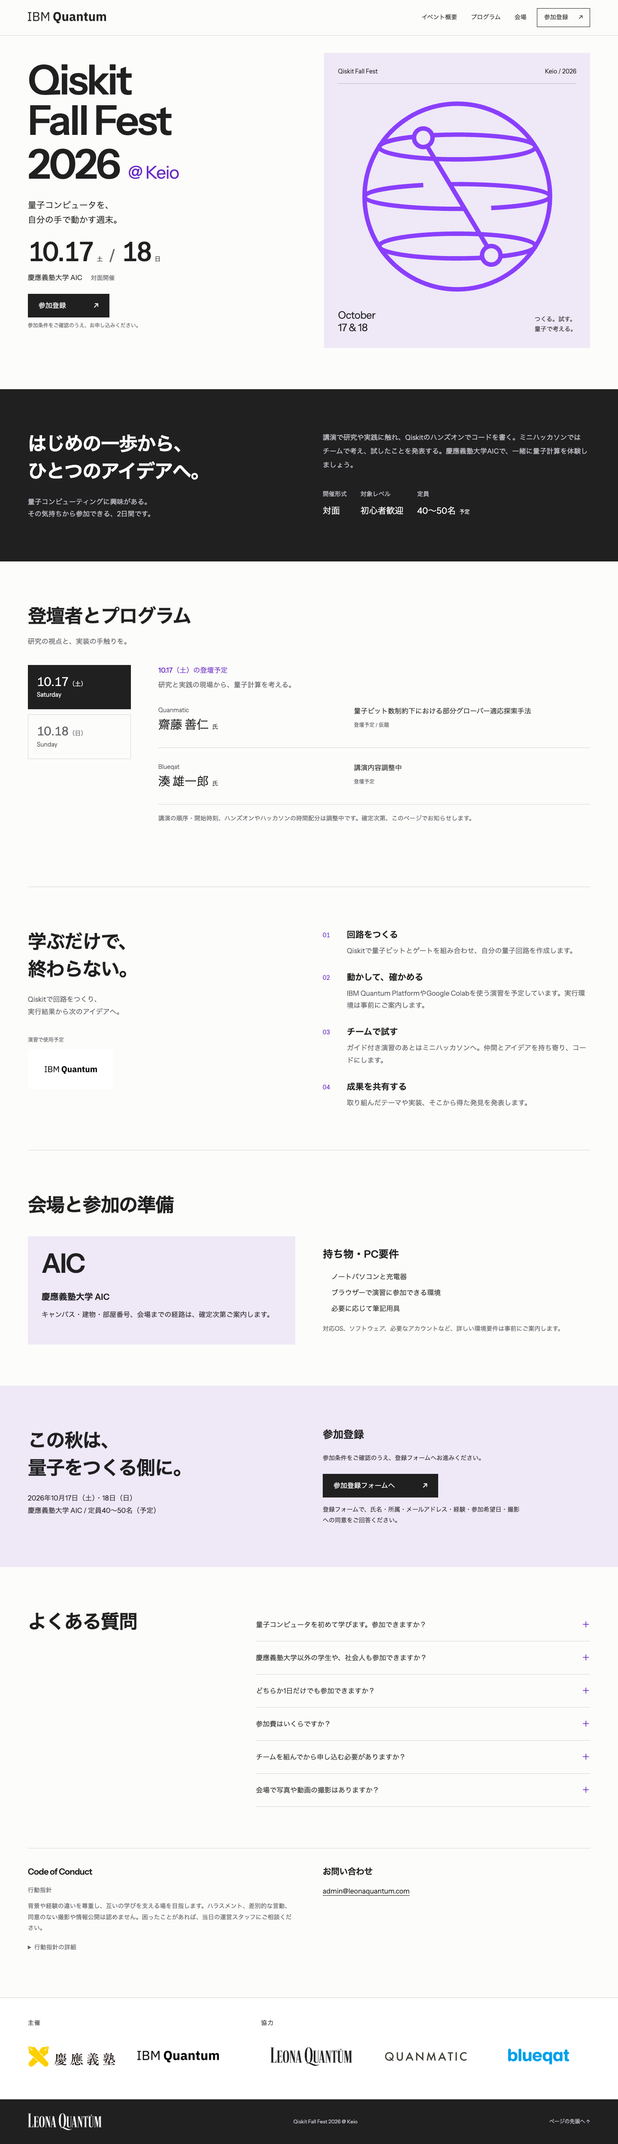
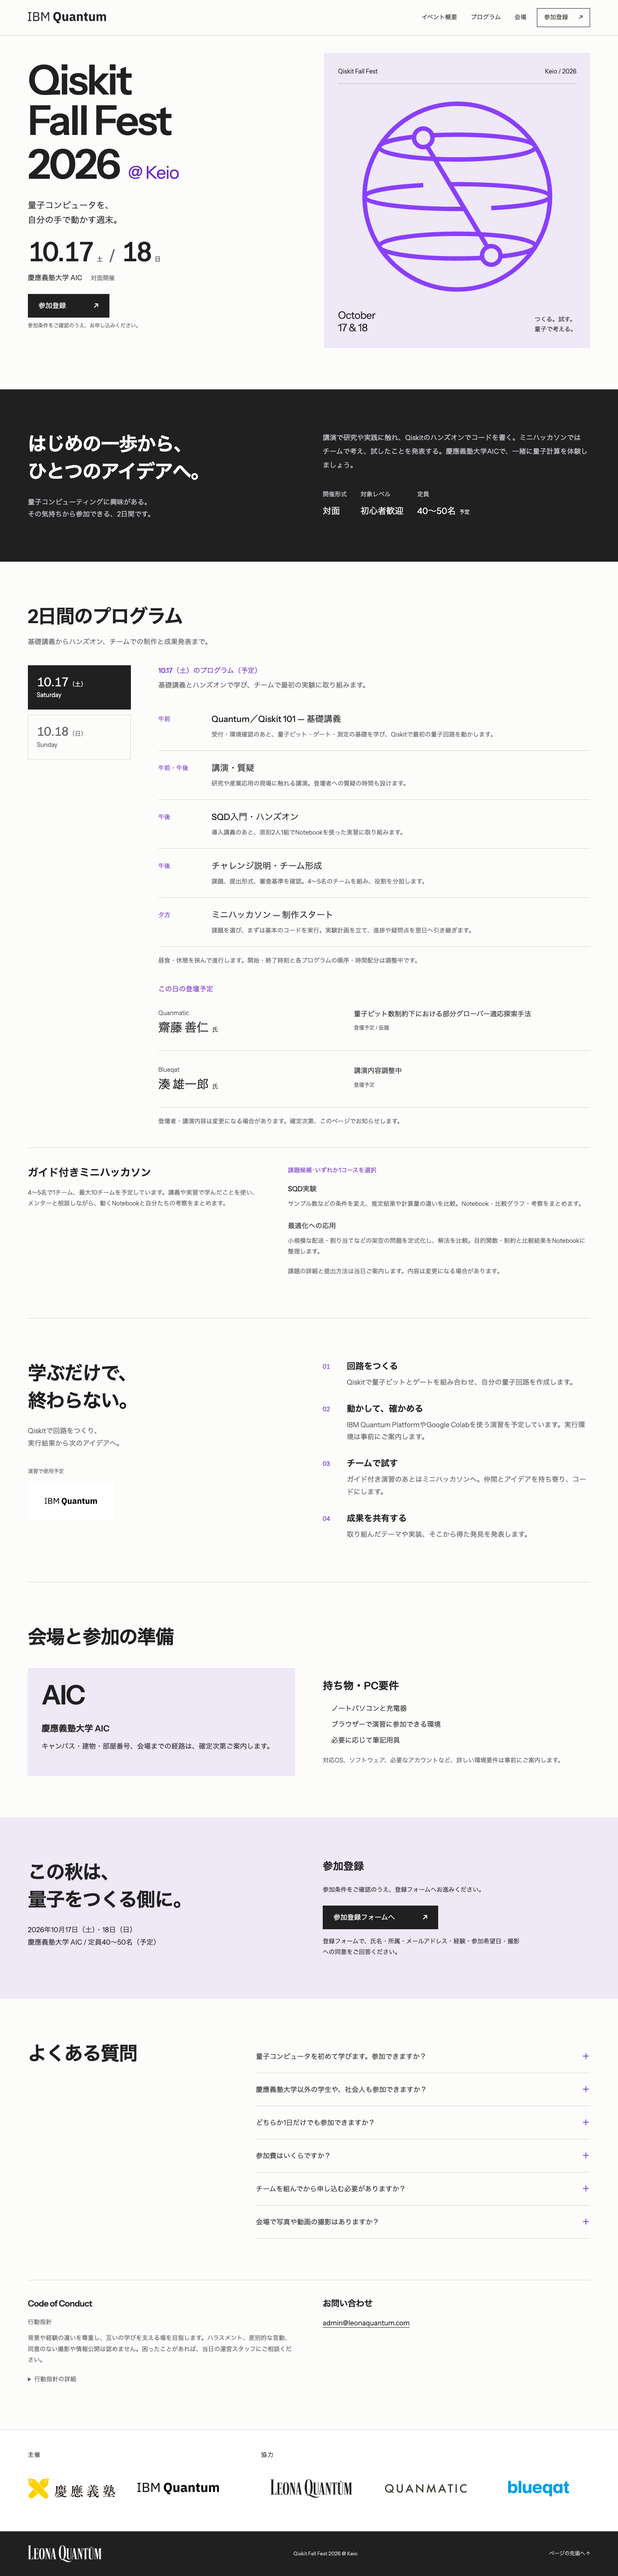
add: expand Keio event program with lectures and hackathon

diff --git a/apps/web/app/events/qiskit-fall-fest-2026/event.ts b/apps/web/app/events/qiskit-fall-fest-2026/event.ts
@@ -18,7 +18,40 @@ export const days = [
     date: "10.17",
     weekday: "土",
     english: "Saturday",
-    description: "研究と実践の現場から、量子計算を考える。",
+    description:
+      "基礎講義とハンズオンで学び、チームで最初の実験に取り組みます。",
+    schedule: [
+      {
+        period: "午前",
+        title: "Quantum／Qiskit 101 — 基礎講義",
+        description:
+          "受付・環境確認のあと、量子ビット・ゲート・測定の基礎を学び、Qiskitで最初の量子回路を動かします。",
+      },
+      {
+        period: "午前・午後",
+        title: "講演・質疑",
+        description:
+          "研究や産業応用の現場に触れる講演。登壇者への質疑の時間も設けます。",
+      },
+      {
+        period: "午後",
+        title: "SQD入門・ハンズオン",
+        description:
+          "導入講義のあと、原則2人1組でNotebookを使った実習に取り組みます。",
+      },
+      {
+        period: "午後",
+        title: "チャレンジ説明・チーム形成",
+        description:
+          "課題、提出形式、審査基準を確認。4〜5名のチームを組み、役割を分担します。",
+      },
+      {
+        period: "夕方",
+        title: "ミニハッカソン — 制作スタート",
+        description:
+          "課題を選び、まずは基本のコードを実行。実験計画を立て、進捗や疑問点を翌日へ引き継ぎます。",
+      },
+    ],
     speakers: [
       {
         name: "齋藤 善仁",
@@ -39,19 +72,52 @@ export const days = [
     date: "10.18",
     weekday: "日",
     english: "Sunday",
-    description: "田中宗教授・小山尚彦先生の講演を予定。",
+    description:
+      "講演で視野を広げながら制作を進め、試したことと得られた結果を発表します。",
+    schedule: [
+      {
+        period: "午前",
+        title: "講演・質疑",
+        description:
+          "量子計算の研究や応用をテーマにした講演を通して、学びを深めます。",
+      },
+      {
+        period: "午前・午後",
+        title: "ミニハッカソン — 実験・実装",
+        description:
+          "メンターの支援を受けながらチーム制作。条件を変えて結果を比較し、グラフなどで可視化します。",
+      },
+      {
+        period: "午後",
+        title: "Notebook提出・発表準備",
+        description:
+          "実行結果と考察をNotebookにまとめて提出。3枚以内の発表資料を準備します。",
+      },
+      {
+        period: "夕方",
+        title: "成果発表",
+        description:
+          "各チームが3分間で取り組みを発表し、2分間の質疑で学びを共有します。",
+      },
+      {
+        period: "夕方",
+        title: "講評・表彰・閉会",
+        description:
+          "成果への講評と表彰を行い、2日間を振り返ります。閉会後は交流の時間を予定しています。",
+      },
+    ],
     speakers: [
       {
         name: "田中 宗",
         affiliation: "教授",
-        title: "講演内容調整中",
-        note: "登壇予定",
+        title: "量子アニーリングについて",
+        note: "登壇予定 / 内容調整中",
       },
       {
         name: "小山 尚彦",
         affiliation: "先生",
-        title: "講演内容調整中",
-        note: "登壇予定",
+        title: "量子機械学習について",
+        note: "登壇予定 / 内容調整中",
       },
     ],
   },

diff --git a/apps/web/app/events/qiskit-fall-fest-2026/page.tsx b/apps/web/app/events/qiskit-fall-fest-2026/page.tsx
@@ -183,10 +183,40 @@ export default function FallFestPage() {
           aria-labelledby="program-title"
         >
           <div className={s.sectionHeading}>
-            <h2 id="program-title">登壇者とプログラム</h2>
-            <p>研究の視点と、実装の手触りを。</p>
+            <h2 id="program-title">2日間のプログラム</h2>
+            <p>基礎講義からハンズオン、チームでの制作と成果発表まで。</p>
           </div>
           <Program />
+          <div className={s.hackathonBrief}>
+            <div>
+              <h3>ガイド付きミニハッカソン</h3>
+              <p>
+                4〜5名で1チーム、最大10チームを予定しています。講義や実習で学んだことを使い、メンターと相談しながら、動くNotebookと自分たちの考察をまとめます。
+              </p>
+            </div>
+            <div>
+              <p className={s.challengeLabel}>
+                課題候補 · いずれか1コースを選択
+              </p>
+              <dl className={s.challengeCourses}>
+                <div>
+                  <dt>SQD実験</dt>
+                  <dd>
+                    サンプル数などの条件を変え、推定結果や計算量の違いを比較。Notebook・比較グラフ・考察をまとめます。
+                  </dd>
+                </div>
+                <div>
+                  <dt>最適化への応用</dt>
+                  <dd>
+                    小規模な配送・割り当てなどの架空の問題を定式化し、解法を比較。目的関数・制約と比較結果をNotebookに整理します。
+                  </dd>
+                </div>
+              </dl>
+              <p className={s.programNote}>
+                課題の詳細と提出方法は当日ご案内します。内容は変更になる場合があります。
+              </p>
+            </div>
+          </div>
         </section>
         <section className={s.experience} aria-labelledby="experience-title">
           <div className={s.experienceHeading}>

diff --git a/apps/web/app/events/qiskit-fall-fest-2026/page.module.css b/apps/web/app/events/qiskit-fall-fest-2026/page.module.css
@@ -845,3 +845,76 @@
     gap: var(--sp-10);
   }
 }
+
+.schedule {
+  list-style: none;
+  margin: var(--sp-6) 0 0;
+  padding: 0;
+}
+.schedule li {
+  display: grid;
+  grid-template-columns: 100px minmax(0, 1fr);
+  gap: var(--sp-6);
+  padding: var(--sp-6) 0;
+  border-bottom: 1px solid var(--qff-line);
+}
+.sessionPeriod {
+  color: var(--qff-accent);
+  font-size: var(--qff-small);
+  padding-top: var(--sp-1);
+}
+.schedule h4 {
+  font-size: var(--qff-lead);
+  line-height: 1.6;
+  font-weight: 500;
+}
+.schedule li > div > p {
+  margin-top: var(--sp-2);
+  color: var(--qff-muted);
+  font-size: var(--qff-small);
+}
+.dayPanel .speakersHeading {
+  margin-top: var(--sp-10);
+}
+.hackathonBrief {
+  display: grid;
+  grid-template-columns: 1fr 1.3fr;
+  gap: var(--sp-16);
+  margin-top: var(--sp-12);
+  padding-top: var(--sp-10);
+  border-top: 1px solid var(--qff-line);
+}
+.hackathonBrief > div > p:not(.challengeLabel) {
+  margin-top: var(--sp-4);
+  color: var(--qff-muted);
+  font-size: var(--qff-small);
+}
+.challengeLabel {
+  color: var(--qff-accent);
+  font-size: var(--qff-small);
+}
+.challengeCourses {
+  margin: var(--sp-4) 0 0;
+}
+.challengeCourses > div + div {
+  margin-top: var(--sp-6);
+}
+.challengeCourses dt {
+  font-size: var(--qff-body);
+  font-weight: 500;
+}
+.challengeCourses dd {
+  margin: var(--sp-2) 0 0;
+  color: var(--qff-muted);
+  font-size: var(--qff-small);
+}
+@media (max-width: 767px) {
+  .schedule li {
+    grid-template-columns: 1fr;
+    gap: var(--sp-2);
+  }
+  .hackathonBrief {
+    grid-template-columns: 1fr;
+    gap: var(--sp-6);
+  }
+}

diff --git a/apps/web/app/events/qiskit-fall-fest-2026/program.tsx b/apps/web/app/events/qiskit-fall-fest-2026/program.tsx
@@ -33,9 +33,24 @@ export function Program() {
         aria-atomic="true"
       >
         <h3>
-          {day.date}（{day.weekday}）の登壇予定
+          {day.date}（{day.weekday}）のプログラム（予定）
         </h3>
         <p className={s.dayIntro}>{day.description}</p>
+        <ol className={s.schedule} aria-label="当日の流れ">
+          {day.schedule.map((session) => (
+            <li key={session.title}>
+              <p className={s.sessionPeriod}>{session.period}</p>
+              <div>
+                <h4>{session.title}</h4>
+                <p>{session.description}</p>
+              </div>
+            </li>
+          ))}
+        </ol>
+        <p className={s.programNote}>
+          昼食・休憩を挟んで進行します。開始・終了時刻と各プログラムの順序・時間配分は調整中です。
+        </p>
+        <h3 className={s.speakersHeading}>この日の登壇予定</h3>
         {day.speakers.map((speaker) => (
           <article className={s.speaker} key={speaker.name}>
             <div>
@@ -62,7 +77,7 @@ export function Program() {
           </article>
         ))}
         <p className={s.programNote}>
-          講演の順序・開始時刻、ハンズオンやハッカソンの時間配分は調整中です。確定次第、このページでお知らせします。
+          登壇者・講演内容は変更になる場合があります。確定次第、このページでお知らせします。
         </p>
       </div>
     </div>

diff --git a/docs/ui/qiskit-fall-fest-keio-2026.md b/docs/ui/qiskit-fall-fest-keio-2026.md
@@ -60,3 +60,21 @@ Desktop and mobile screenshots live in `screenshots/qiskit-fall-fest-2026/`.
 The publication branch is `feature/qiskit-fall-fest-keio-publish`, based on current
 `origin/dev`. Unrelated About/landing edits and local-only commits in the original
 checkout are preserved and excluded from this change.
+
+
+## Expanded program from the owner-supplied plan
+
+Source: `QFF-Keio.docx - Google ドキュメント.pdf`, pages 1–2, supplied locally.
+The private planning PDF is not published. Day one now describes Quantum/Qiskit
+101, lectures, SQD instruction and paired hands-on work, team formation, and the
+start of the mini hackathon. Day two describes lectures, mentored implementation,
+Notebook submission, presentations, and feedback/awards. A shared brief covers
+4–5-person teams and the two candidate courses: SQD experiments and optimization.
+The planned talk topics are quantum annealing and quantum machine learning.
+
+The source explicitly says timings are provisional; the page uses broad day
+periods and marks the program planned rather than publishing exact clock times.
+The red annotation on page 1 disagrees with the speaker table and detailed agenda
+about day assignments. Clarification was requested; the existing published
+assignments are retained until confirmed. Host/contact/conduct facts continue to
+follow the owner's newer explicit instructions, not the older planning draft.
